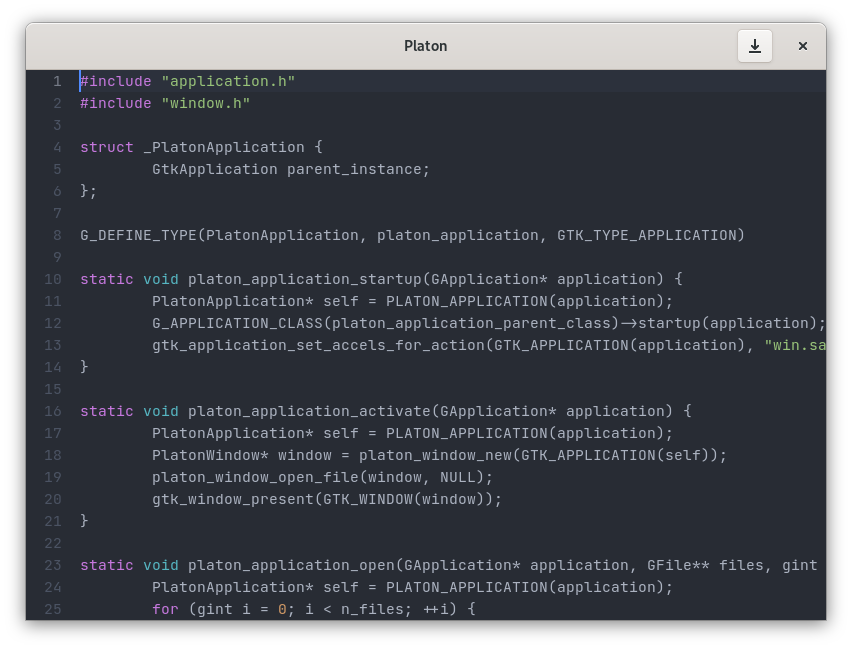
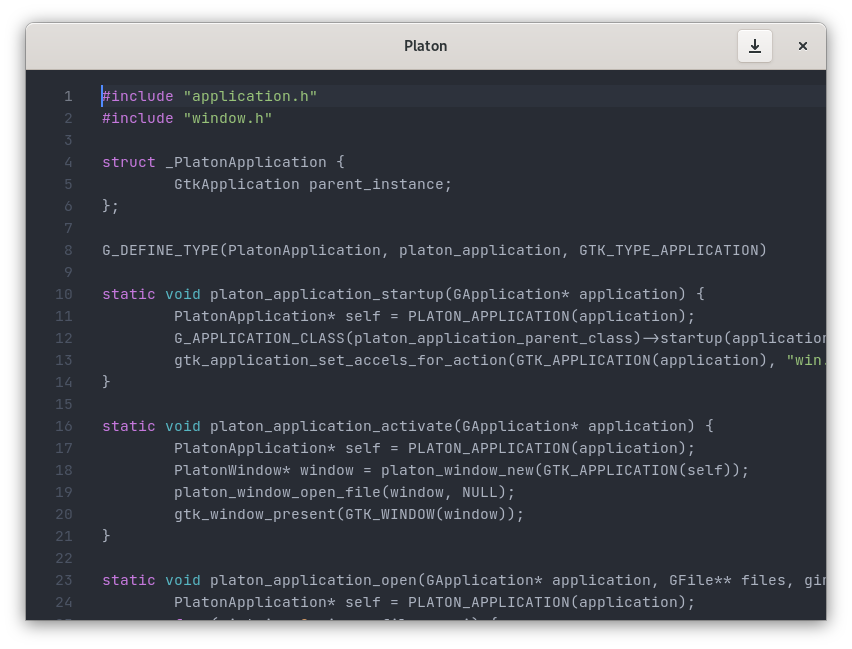
more padding

diff --git a/editor_widget.cpp b/editor_widget.cpp
@@ -7,7 +7,9 @@
 #define G_CONNECT_DEFAULT ((GConnectFlags)0)
 #endif
 
-#define LINE_HEIGHT_FACTOR 1.5
+#define LINE_HEIGHT 1.5
+#define HORIZONTAL_PADDING 2.0
+#define VERTICAL_PADDING 1.0
 
 static void set_source(cairo_t* cr, const Color& color) {
 	cairo_set_source_rgba(cr, color.r, color.g, color.b, color.a);
@@ -148,6 +150,8 @@ typedef struct {
 	GFile* file;
 	Editor* editor;
 	PangoFontDescription* font_description;
+	double font_size;
+	double vertical_padding;
 	double ascent;
 	double line_height;
 	double char_width;
@@ -184,9 +188,9 @@ static std::size_t count_digits(std::size_t n) {
 static void update(PlatonEditorWidget* self) {
 	PlatonEditorWidgetPrivate* priv = (PlatonEditorWidgetPrivate*)platon_editor_widget_get_instance_private(self);
 	if (priv->vadjustment) {
-		priv->gutter_width = std::round(priv->char_width) * (4.0 + count_digits(priv->editor->get_total_lines()));
+		priv->gutter_width = std::round(priv->char_width * count_digits(priv->editor->get_total_lines()) + priv->font_size * (HORIZONTAL_PADDING * 2.0));
 		const double page_size = gtk_widget_get_allocated_height(GTK_WIDGET(self));
-		const double upper = std::max(priv->editor->get_total_lines() * priv->line_height, page_size);
+		const double upper = std::max(priv->editor->get_total_lines() * priv->line_height + priv->vertical_padding * 2.0, page_size);
 		const double max_value = std::max(upper - page_size, 0.0);
 		g_object_freeze_notify(G_OBJECT(priv->vadjustment));
 		gtk_adjustment_set_page_size(priv->vadjustment, page_size);
@@ -297,7 +301,7 @@ static gboolean platon_editor_widget_draw(GtkWidget* widget, cairo_t* cr) {
 	cairo_rectangle(cr, 0.0, 0.0, priv->gutter_width, allocated_height);
 	cairo_fill(cr);
 	for (size_t row = start_row; row < end_row; ++row) {
-		const double y = row * priv->line_height - vadjustment;
+		const double y = priv->vertical_padding + row * priv->line_height - vadjustment;
 		const bool is_active = lines[row - start_row].cursors.size() > 0 || lines[row - start_row].selections.size() > 0;
 		if (is_active) {
 			set_source(cr, theme.background_active);
@@ -321,7 +325,7 @@ static gboolean platon_editor_widget_draw(GtkWidget* widget, cairo_t* cr) {
 		// line number
 		{
 			Layout layout = priv->layout_cache->get_layout(pango_context, priv->font_description, theme, lines[row - start_row].number, is_active);
-			const double x = priv->gutter_width - std::round(priv->char_width) * 2.0;
+			const double x = priv->gutter_width - std::round(priv->font_size * HORIZONTAL_PADDING);
 			layout.draw(cr, theme, x, y + priv->ascent, true);
 		}
 		// cursors
@@ -373,7 +377,7 @@ static void handle_pressed(GtkGestureMultiPress* multipress_gesture, gint n_pres
 	gdk_event_get_state(event, &state);
 	const bool modify_selection = state & gtk_widget_get_modifier_mask(GTK_WIDGET(self), GDK_MODIFIER_INTENT_MODIFY_SELECTION);
 	const bool extend_selection = state & gtk_widget_get_modifier_mask(GTK_WIDGET(self), GDK_MODIFIER_INTENT_EXTEND_SELECTION);
-	const std::size_t line = std::max((y + vadjustment) / priv->line_height, 0.0);
+	const std::size_t line = std::max((y + vadjustment - priv->vertical_padding) / priv->line_height, 0.0);
 	if (line < priv->editor->get_total_lines()) {
 		Layout layout = priv->layout_cache->get_layout(gtk_widget_get_pango_context(GTK_WIDGET(self)), priv->font_description, priv->editor->get_theme(), priv->editor->render(line));
 		const std::size_t column = layout.x_to_index(x - priv->gutter_width);
@@ -398,10 +402,12 @@ static void handle_drag_update(GtkGestureDrag* drag_gesture, gdouble offset_x, g
 	const double vadjustment = gtk_adjustment_get_value(priv->vadjustment);
 	double start_x, start_y;
 	gtk_gesture_drag_get_start_point(drag_gesture, &start_x, &start_y);
-	const std::size_t line = std::max((start_y + offset_y + vadjustment) / priv->line_height, 0.0);
+	const gdouble x = start_x + offset_x;
+	const gdouble y = start_y + offset_y;
+	const std::size_t line = std::max((y + vadjustment - priv->vertical_padding) / priv->line_height, 0.0);
 	if (line < priv->editor->get_total_lines()) {
 		Layout layout = priv->layout_cache->get_layout(gtk_widget_get_pango_context(GTK_WIDGET(self)), priv->font_description, priv->editor->get_theme(), priv->editor->render(line));
-		const std::size_t column = layout.x_to_index(start_x + offset_x - priv->gutter_width);
+		const std::size_t column = layout.x_to_index(x - priv->gutter_width);
 		priv->editor->extend_selection(column, line);
 		gtk_widget_queue_draw(GTK_WIDGET(self));
 	}
@@ -580,13 +586,14 @@ static void platon_editor_widget_init(PlatonEditorWidget* self) {
 	priv->font_description = pango_font_description_from_string(monospace_font_name);
 	g_free(monospace_font_name);
 	PangoFontMetrics* metrics = pango_context_get_metrics(gtk_widget_get_pango_context(GTK_WIDGET(self)), priv->font_description, NULL);
-	double font_size = pango_units_to_double(pango_font_description_get_size(priv->font_description));
+	priv->font_size = pango_units_to_double(pango_font_description_get_size(priv->font_description));
 	if (!pango_font_description_get_size_is_absolute(priv->font_description)) {
-		font_size = font_size / 72.0 * 96.0;
+		priv->font_size = priv->font_size / 72.0 * 96.0;
 	}
+	priv->vertical_padding = std::round(priv->font_size * VERTICAL_PADDING);
 	const double ascent = pango_units_to_double(pango_font_metrics_get_ascent(metrics));
 	const double descent = pango_units_to_double(pango_font_metrics_get_descent(metrics));
-	priv->line_height = std::round(font_size * LINE_HEIGHT_FACTOR);
+	priv->line_height = std::round(priv->font_size * LINE_HEIGHT);
 	priv->ascent = std::round(ascent + (priv->line_height - (ascent + descent)) / 2.0);
 	priv->char_width = pango_units_to_double(pango_font_metrics_get_approximate_char_width(metrics));
 	pango_font_metrics_unref(metrics);
